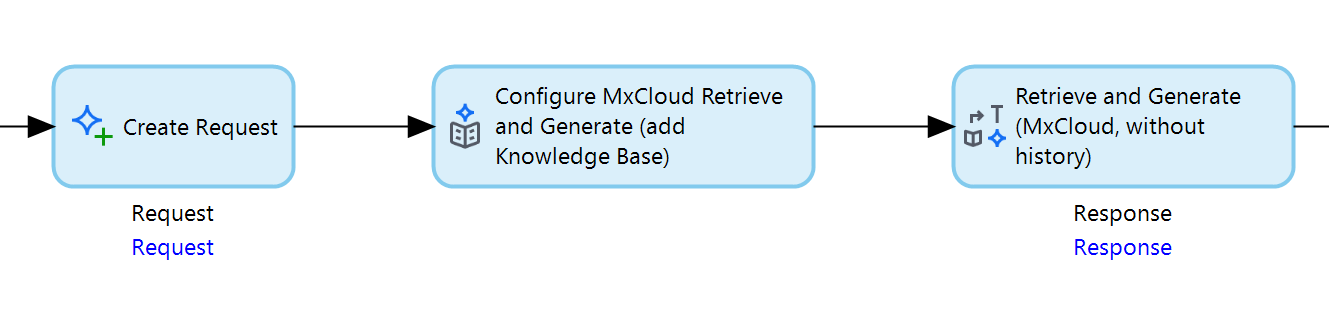
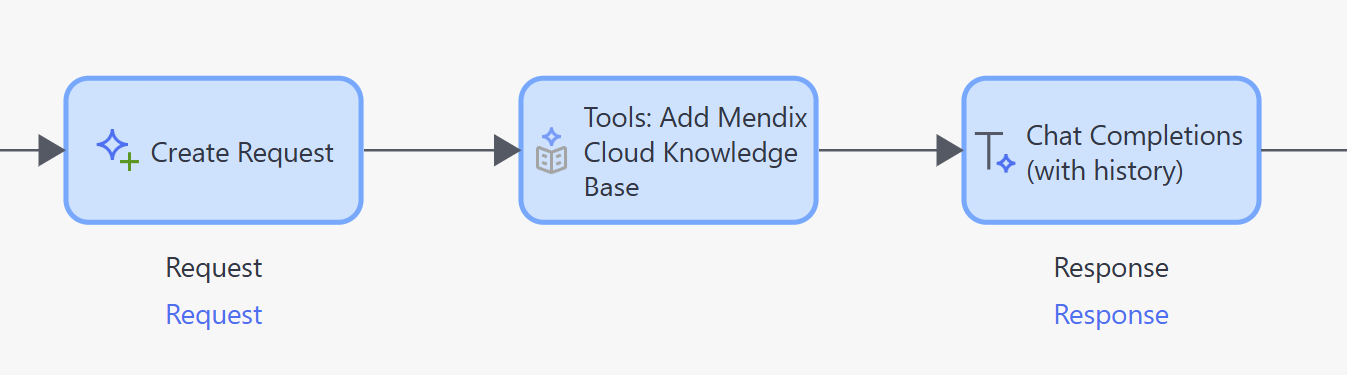
Gen AI Connector and GenAI commons

diff --git a/content/en/docs/appstore/use-content/platform-supported-content/modules/genai/mendix-cloud-genai/Mx GenAI Connector.md b/content/en/docs/appstore/use-content/platform-supported-content/modules/genai/mendix-cloud-genai/Mx GenAI Connector.md
@@ -119,13 +119,11 @@ The microflow activity [Chat completions (with history)](/appstore/modules/genai
 
 #### Chat Completions (Retrieve & Generate)
 
-The microflow activity `Retrieve and Generate (MxCloud, without history)` simplifies `Retrieve and Generate` use cases without history. By providing a user prompt, the knowledge base is searched for similar knowledge chunks, which are then passed to the model. The model is instructed to base its response on the retrieved knowledge while referring to the source used to generate the response. This operation requires a [Request](/appstore/modules/genai/genai-for-mx/commons/#request) which is associated to a `RetrieveAndGenerateRequest_Extension` pointing to a `MxKnowledgebaseConnection` object. Please use the flow shown below as orientation when setting up your logic to make sure that all is implemented as required: 
+To use retrieval and generation in a single operation, an internally predefined tool can be added to the [Request](/appstore/modules/genai/commons/#request) via the `Tools: Add Mendix Cloud Knowledge Base` action . The model can then decide whether to use the [knowledge base retrieval](/appstore/modules/genai/commons/#knowledge-base-retrieval) tool when handling the request. This functionality is supported in both with-history and without-history operations. Additionally, you may apply optional filters, such as `MaxNumberOfResults` or `MinimumSimilarity`, or pass a [MetadataCollection](/appstore/modules/genai/commons/#metadatacollection-entity). The optional `Description` can help the model understand the knowledge base content and decide whether it should be called in the current chat context.
 
 {{< figure src="/attachments/appstore/platform-supported-content/modules/genai/mxgenAI-connector/MxGenAIConnector_ConfigureRAG.png" >}}
 
-A `SystemPrompt` can be provided through the `Request` and other filter options can be set when initializing the `RetrieveAndGenerateRequest_Extension` (for example through metadata). 
-
-The returned `Response` includes [References](/appstore/modules/genai/genai-for-mx/commons/#reference) if the model used them to generate its response. In some cases, a knowledge chunk consists of two texts: one for the semantic search step and another for the generation step. For example, when solving a problem based on historical solutions, the semantic search identifies similar problems using their descriptions, while the generation step produces a solution based on the corresponding historical solutions. In those cases, you can add [MetaData](/appstore/modules/genai/genai-for-mx/commons/#chunkcollection-add-knowledgebasechunk) with the key `knowledge` to the chunks during the insertion stage, allowing the model to base its response on the specified metadata rather than the input text.
+The returned `Response` includes [References](/appstore/modules/genai/commons/#reference) if the model used them to generate its response. In some cases, a knowledge chunk consists of two texts: one for the semantic search step (retrieval) and another for the generation step. For example, when solving a problem based on historical solutions, the semantic search identifies similar problems using their descriptions, while the generation step produces a solution based on the corresponding historical solutions. In those cases, you can add [MetaData](/appstore/modules/genai/commons/#chunkcollection-add-knowledgebasechunk) with the key `knowledge` to the chunks during the insertion stage, allowing the model to base its response on the specified metadata rather than the input text (only the knowledge is passed to the model).
 
 Additionally, to utilize the `Source` attribute of the references, you can include `MetaData` with the key `sourceUrl`. Finally, the `HumanReadableId` of a chunk is used to display the reference's title in the response.
 

diff --git a/content/en/docs/appstore/use-content/platform-supported-content/modules/genai/reference-guide/genai-for-mendix.md/genai-commons.md b/content/en/docs/appstore/use-content/platform-supported-content/modules/genai/reference-guide/genai-for-mendix.md/genai-commons.md
@@ -159,18 +159,24 @@ A tool in the tool collection. This is sent along with the request to expose a l
 | `Name` | The name of the tool to call. This is used by the model in the response to identify which function needs to be called. |
 | `Description` | An optional description of the tool, used by the model in addition to the name attribute to choose when and how to call the tool. | 
 | `ToolType` | The type of the tool. Refer to the documentation supplied by your AI provider for information about the supported types. |
+| `Microflow` | The name (string) of the microflow that this tool represents. |
 
 #### `Function` {#function}
 
 A tool of the type *function*. This is a specialization of [Tool](#tool) and represents a microflow in the same Mendix application. The return value of this microflow when executed as a function is sent to the model in the next iteration and hence must be of type String.
 
-| Attribute | Description |
-| --- | --- |
-| `Microflow` | The name (string) of the microflow that this function represents. |
-
 {{% alert color="info" %}}
 Since this microflow runs in the context of the user, you can make sure that it only shows data that is relevant to the current user.
 {{% /alert %}}
+
+#### `KnowledgeBaseRetrieval` {#knowledge-base-retrieval}
+
+A tool of the type *function*. This is a specialization of [Tool](#tool) and represents a microflow in the same Mendix application. It is typically used internally inside of connector operations to enable the model with a knowledge base retrieval.
+
+| Attribute | Description |
+| --- | --- |
+| `MinimumSimilarity` | Specifies the minimum similarity score (usually 0,0 - 1,0) of the passed chunk and the knowledge chunks in the knowledge base. |
+| `MaxNumberOfResults` | Specifies the maximum number of results that should be retrieved from the knowledge base. |
 
 #### `StopSequence` {#stopsequence}
 
